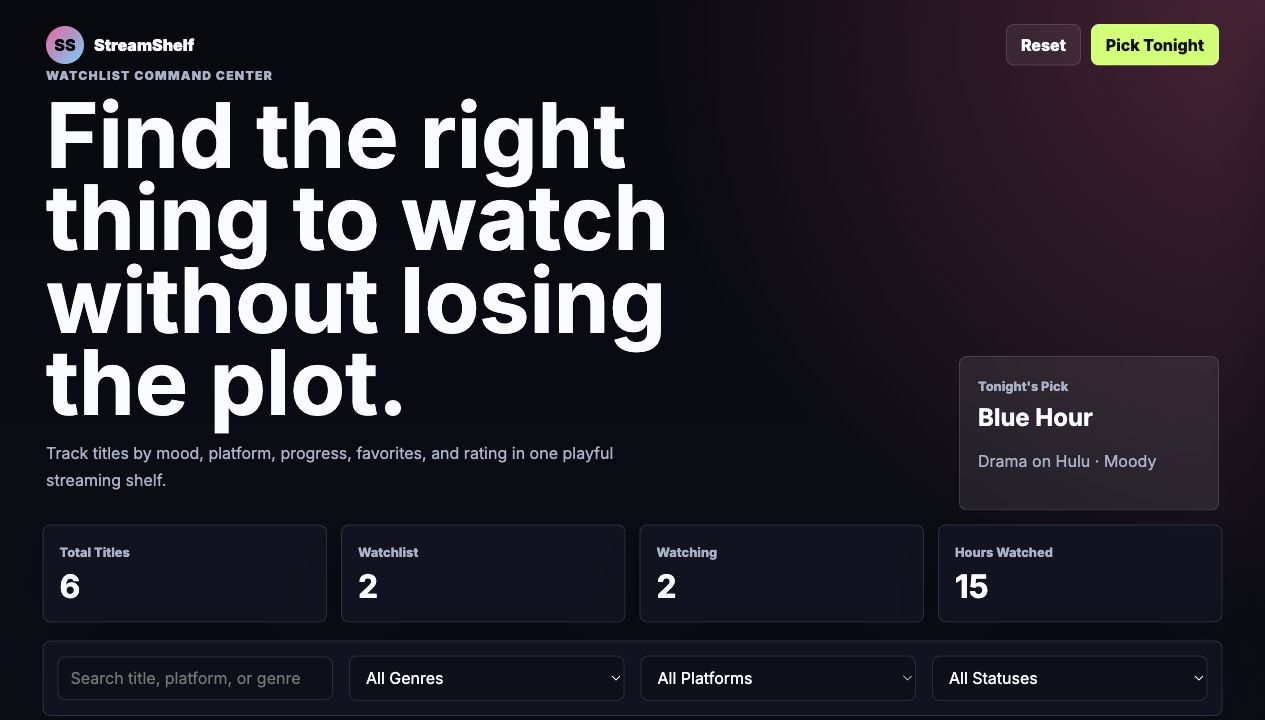
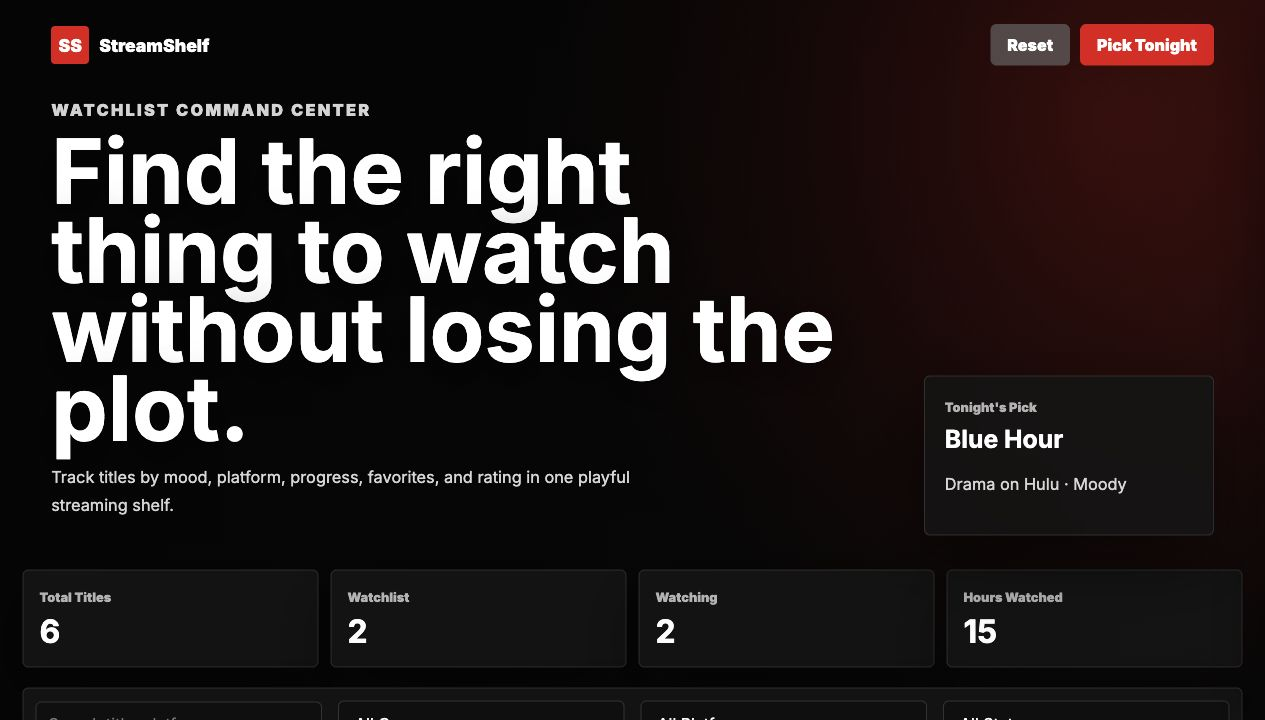
Update StreamShelf styling

diff --git a/css/style.css b/css/style.css
@@ -1,71 +1,273 @@
 :root {
-  --bg: #08090f;
-  --surface: #121422;
-  --surface-2: #1b1f33;
-  --ink: #f9fbff;
-  --muted: #a9b1ca;
-  --pink: #ff5e9c;
-  --blue: #63d2ff;
-  --lime: #c7ff5e;
-  --yellow: #ffe56b;
-  --line: rgba(255,255,255,.12);
-  --radius: 8px;
+  --bg: #050505;
+  --surface: #141414;
+  --surface-2: #1f1f1f;
+  --ink: #ffffff;
+  --muted: #b3b3b3;
+  --red: #e50914;
+  --red-dark: #b20710;
+  --line: rgba(255, 255, 255, 0.12);
+  --radius: 6px;
   --font: "Inter", system-ui, sans-serif;
 }
+
 * { box-sizing: border-box; }
-body { margin: 0; min-height: 100vh; background: radial-gradient(circle at top right, rgba(255,94,156,.28), transparent 30%), linear-gradient(180deg, #08090f, #121422); color: var(--ink); font-family: var(--font); }
+
+body {
+  margin: 0;
+  min-height: 100vh;
+  background:
+    linear-gradient(90deg, rgba(5, 5, 5, 0.98) 0%, rgba(5, 5, 5, 0.76) 48%, rgba(5, 5, 5, 0.4) 100%),
+    radial-gradient(circle at 88% 8%, rgba(229, 9, 20, 0.45), transparent 34%),
+    linear-gradient(180deg, #050505, #111);
+  color: var(--ink);
+  font-family: var(--font);
+}
+
 button, input, select { font: inherit; }
 button { cursor: pointer; }
-.shell { padding: 24px clamp(18px,4vw,46px) 42px; }
-.nav, .hero, .toolbar, .spotlight, .card-line, .status-row, .drawer-actions { display: flex; align-items: center; justify-content: space-between; gap: 16px; }
-.brand { display: flex; align-items: center; gap: 10px; font-weight: 900; }
-.brand span { width: 38px; height: 38px; display: grid; place-items: center; border-radius: 50%; background: linear-gradient(135deg, var(--pink), var(--blue)); color: #05060a; }
+
+.shell {
+  min-height: 620px;
+  padding: 24px clamp(18px, 4vw, 54px) 120px;
+}
+
+.nav, .hero, .toolbar, .spotlight, .card-line, .status-row, .drawer-actions {
+  display: flex;
+  align-items: center;
+  justify-content: space-between;
+  gap: 16px;
+}
+
+.brand {
+  display: flex;
+  align-items: center;
+  gap: 10px;
+  font-size: 1.1rem;
+  font-weight: 900;
+}
+
+.brand span {
+  width: 38px;
+  height: 38px;
+  display: grid;
+  place-items: center;
+  border-radius: 4px;
+  background: var(--red);
+  color: #fff;
+  font-weight: 900;
+}
+
 .nav-actions { display: flex; gap: 10px; }
-.primary-btn, .ghost-btn, .drawer-actions button, .close-btn { border: 1px solid var(--line); border-radius: var(--radius); font-weight: 800; }
-.primary-btn, .ghost-btn, .drawer-actions button { padding: 10px 14px; }
-.primary-btn { background: var(--lime); color: #111; }
-.ghost-btn { background: rgba(255,255,255,.06); color: var(--ink); }
-.hero { align-items: end; min-height: 390px; }
-.hero h1 { max-width: 780px; margin: 8px 0 12px; font-size: clamp(2.6rem, 7vw, 5.8rem); line-height: .92; letter-spacing: 0; }
-.hero p { max-width: 620px; color: var(--muted); line-height: 1.7; }
-.eyebrow { margin: 0; color: var(--blue); font-size: .76rem; font-weight: 900; text-transform: uppercase; letter-spacing: .1em; }
-.hero-pick { min-width: 260px; border: 1px solid var(--line); border-radius: var(--radius); background: rgba(255,255,255,.08); padding: 18px; backdrop-filter: blur(16px); }
-.hero-pick span, .metrics span, .status-row span { color: var(--muted); font-size: .8rem; font-weight: 800; }
-.hero-pick strong { display: block; margin: 8px 0; font-size: 1.5rem; }
-.main { width: min(1180px, calc(100% - 32px)); margin: -28px auto 46px; display: grid; gap: 18px; }
-.metrics { display: grid; grid-template-columns: repeat(4, minmax(0, 1fr)); gap: 14px; }
-.metrics article, .toolbar, .spotlight, .media-card, .drawer-card { border: 1px solid var(--line); border-radius: var(--radius); background: rgba(18,20,34,.9); box-shadow: 0 24px 60px rgba(0,0,0,.28); }
-.metrics article { padding: 16px; }
-.metrics strong { display: block; margin-top: 6px; font-size: 2rem; }
-.toolbar { padding: 14px; }
-input, select { width: 100%; border: 1px solid var(--line); border-radius: var(--radius); background: #0d0f1a; color: var(--ink); padding: 11px 12px; }
-.spotlight { padding: 20px; }
-.spotlight h2 { margin: 4px 0; font-size: 2rem; }
-.project-tags { display: flex; flex-wrap: wrap; gap: 8px; margin-top: 14px; }
-.project-tags span { border-radius: 999px; background: rgba(99,210,255,.12); color: var(--blue); padding: 6px 9px; font-size: .74rem; font-weight: 900; }
+
+.primary-btn, .ghost-btn, .drawer-actions button, .close-btn {
+  border: 1px solid transparent;
+  border-radius: var(--radius);
+  font-weight: 850;
+}
+
+.primary-btn, .ghost-btn, .drawer-actions button { padding: 10px 16px; }
+.primary-btn { background: var(--red); color: #fff; }
+.primary-btn:hover, .drawer-actions button:hover { background: var(--red-dark); }
+.ghost-btn { background: rgba(109, 109, 110, 0.62); color: #fff; }
+
+.hero {
+  align-items: end;
+  min-height: 470px;
+}
+
+.hero h1 {
+  max-width: 820px;
+  margin: 8px 0 14px;
+  font-size: clamp(2.6rem, 7vw, 6.3rem);
+  line-height: 0.88;
+  letter-spacing: 0;
+  text-shadow: 0 12px 50px rgba(0, 0, 0, 0.65);
+}
+
+.hero p {
+  max-width: 650px;
+  color: #d6d6d6;
+  line-height: 1.7;
+  font-size: 1.02rem;
+}
+
+.eyebrow {
+  margin: 0;
+  color: var(--red);
+  font-size: 0.76rem;
+  font-weight: 900;
+  text-transform: uppercase;
+  letter-spacing: 0.14em;
+}
+
+.hero-pick {
+  min-width: 290px;
+  border: 1px solid var(--line);
+  border-radius: var(--radius);
+  background: rgba(20, 20, 20, 0.84);
+  padding: 20px;
+  box-shadow: 0 24px 70px rgba(0, 0, 0, 0.55);
+  backdrop-filter: blur(18px);
+}
+
+.hero-pick span, .metrics span, .status-row span {
+  color: var(--muted);
+  font-size: 0.8rem;
+  font-weight: 850;
+}
+
+.hero-pick strong {
+  display: block;
+  margin: 8px 0;
+  font-size: 1.55rem;
+}
+
+.main {
+  width: min(1220px, calc(100% - 32px));
+  margin: -86px auto 46px;
+  display: grid;
+  gap: 20px;
+}
+
+.metrics {
+  display: grid;
+  grid-template-columns: repeat(4, minmax(0, 1fr));
+  gap: 12px;
+}
+
+.metrics article, .toolbar, .spotlight, .drawer-card {
+  border: 1px solid var(--line);
+  border-radius: var(--radius);
+  background: rgba(20, 20, 20, 0.94);
+  box-shadow: 0 24px 70px rgba(0, 0, 0, 0.42);
+}
+
+.metrics article {
+  padding: 16px;
+}
+
+.metrics strong {
+  display: block;
+  margin-top: 6px;
+  font-size: 2rem;
+}
+
+.toolbar {
+  padding: 12px;
+}
+
+input, select {
+  width: 100%;
+  border: 1px solid #333;
+  border-radius: var(--radius);
+  background: #0f0f0f;
+  color: var(--ink);
+  padding: 12px;
+}
+
+.spotlight {
+  padding: 22px;
+  border-left: 5px solid var(--red);
+}
+
+.spotlight h2 {
+  margin: 4px 0;
+  font-size: 2.2rem;
+}
+
+.project-tags {
+  display: flex;
+  flex-wrap: wrap;
+  gap: 8px;
+  margin-top: 14px;
+}
+
+.project-tags span {
+  border-radius: 999px;
+  background: rgba(229, 9, 20, 0.16);
+  color: #ffb3b7;
+  padding: 6px 9px;
+  font-size: 0.74rem;
+  font-weight: 900;
+}
+
 .progress-panel { min-width: 220px; }
 .progress-panel strong { display: block; margin: 8px 0; font-size: 2.4rem; }
-.progress-track { overflow: hidden; height: 12px; border-radius: 999px; background: rgba(255,255,255,.12); }
-.progress-track i { display: block; height: 100%; border-radius: inherit; background: linear-gradient(90deg, var(--pink), var(--blue), var(--lime)); }
-.media-grid { display: grid; grid-template-columns: repeat(auto-fit, minmax(240px, 1fr)); gap: 16px; }
-.media-card { overflow: hidden; transition: transform .2s ease; }
-.media-card:hover { transform: translateY(-4px); }
-.poster { min-height: 190px; display: grid; place-items: center; background: radial-gradient(circle, var(--poster), transparent 64%), linear-gradient(135deg, #20243a, #0d0f1a); }
-.poster span { font-size: 3rem; font-weight: 900; color: rgba(255,255,255,.9); }
-.media-copy { padding: 14px; }
+.progress-track { overflow: hidden; height: 10px; border-radius: 999px; background: rgba(255, 255, 255, 0.14); }
+.progress-track i { display: block; height: 100%; border-radius: inherit; background: var(--red); }
+
+.media-grid {
+  display: grid;
+  grid-template-columns: repeat(auto-fit, minmax(190px, 1fr));
+  gap: 14px;
+}
+
+.media-card {
+  overflow: hidden;
+  border: 0;
+  border-radius: var(--radius);
+  background: #181818;
+  box-shadow: 0 18px 48px rgba(0, 0, 0, 0.42);
+  transition: transform 0.2s ease, box-shadow 0.2s ease;
+}
+
+.media-card:hover {
+  transform: scale(1.045);
+  box-shadow: 0 24px 70px rgba(0, 0, 0, 0.58);
+  z-index: 3;
+}
+
+.poster {
+  aspect-ratio: 2 / 3;
+  min-height: 0;
+  display: grid;
+  place-items: center;
+  background:
+    linear-gradient(180deg, transparent 0%, rgba(0, 0, 0, 0.58) 100%),
+    radial-gradient(circle at 50% 38%, var(--poster), transparent 64%),
+    linear-gradient(135deg, #2b2b2b, #080808);
+}
+
+.poster span {
+  font-size: 3.2rem;
+  font-weight: 900;
+  color: rgba(255, 255, 255, 0.94);
+}
+
+.media-copy { padding: 13px; }
 .media-copy h3 { margin: 10px 0 6px; }
 .media-copy p { color: var(--muted); margin: 0 0 14px; }
-.drawer { position: fixed; inset: 0 0 0 auto; width: min(430px, 100%); transform: translateX(100%); transition: transform .2s ease; z-index: 20; }
+
+.drawer {
+  position: fixed;
+  inset: 0 0 0 auto;
+  width: min(430px, 100%);
+  transform: translateX(100%);
+  transition: transform 0.2s ease;
+  z-index: 20;
+}
+
 .drawer.open { transform: translateX(0); }
-.drawer-card { height: 100%; overflow: auto; border-radius: 0; padding: 22px; background: #10121f; }
-.close-btn { float: right; width: 34px; height: 34px; background: rgba(255,255,255,.08); color: var(--ink); }
+.drawer-card { height: 100%; overflow: auto; border-radius: 0; padding: 22px; background: #101010; }
+.close-btn { float: right; width: 34px; height: 34px; background: #2b2b2b; color: var(--ink); }
 .drawer-card h2 { clear: both; font-size: 2rem; }
 .detail-grid { display: grid; grid-template-columns: 1fr 1fr; gap: 10px; margin: 18px 0; }
-.detail-grid div { border: 1px solid var(--line); border-radius: var(--radius); padding: 12px; background: rgba(255,255,255,.05); }
-.detail-grid span { display: block; color: var(--muted); font-size: .76rem; }
+.detail-grid div { border: 1px solid var(--line); border-radius: var(--radius); padding: 12px; background: #181818; }
+.detail-grid span { display: block; color: var(--muted); font-size: 0.76rem; }
 .drawer-actions { flex-wrap: wrap; justify-content: flex-start; }
-.drawer-actions button { background: var(--pink); color: white; }
-.toast { position: fixed; right: 18px; bottom: 18px; opacity: 0; transform: translateY(18px); background: var(--lime); color: #111; border-radius: var(--radius); padding: 12px 14px; font-weight: 900; transition: .2s ease; }
+.drawer-actions button { background: var(--red); color: white; }
+.toast { position: fixed; right: 18px; bottom: 18px; opacity: 0; transform: translateY(18px); background: var(--red); color: #fff; border-radius: var(--radius); padding: 12px 14px; font-weight: 900; transition: 0.2s ease; }
 .toast.show { opacity: 1; transform: translateY(0); }
-@media (max-width: 820px) { .hero, .spotlight, .toolbar { align-items: stretch; flex-direction: column; } .metrics { grid-template-columns: 1fr 1fr; } .progress-panel, .hero-pick { min-width: 0; width: 100%; } }
-@media (max-width: 540px) { .metrics, .detail-grid { grid-template-columns: 1fr; } .hero h1 { font-size: 2.4rem; } }
+
+@media (max-width: 820px) {
+  .hero, .spotlight, .toolbar { align-items: stretch; flex-direction: column; }
+  .metrics { grid-template-columns: 1fr 1fr; }
+  .progress-panel, .hero-pick { min-width: 0; width: 100%; }
+  .main { margin-top: -46px; }
+}
+
+@media (max-width: 540px) {
+  .metrics, .detail-grid { grid-template-columns: 1fr; }
+  .hero h1 { font-size: 2.45rem; }
+}